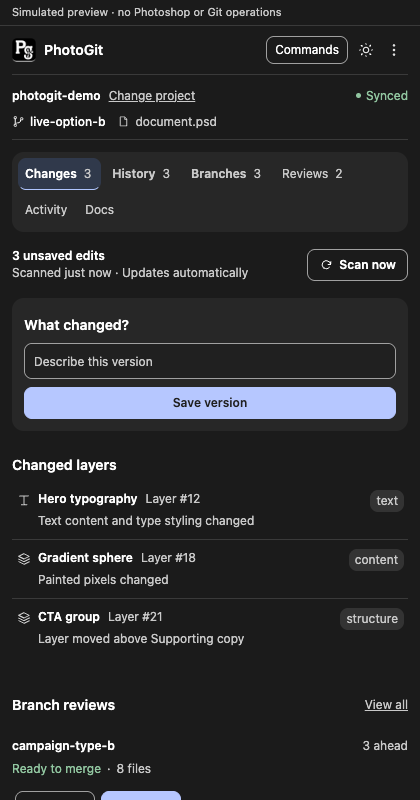
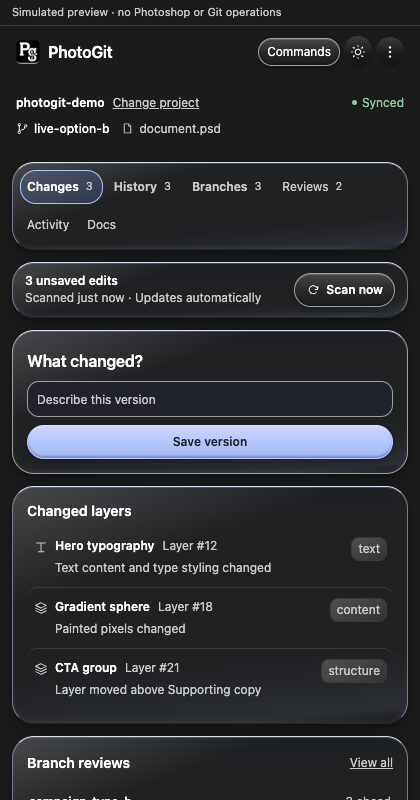
Add prominent glass surfaces and softer PhotoGit motion

diff --git a/apps/photoshop-plugin/styles.css b/apps/photoshop-plugin/styles.css
@@ -10,6 +10,12 @@
   --text-small: 12px; --text-body: 12px; --text-title: 14px; --text-onboarding: 18px; --radius: 8px; --radius-panel: 12px; --motion: 120ms;
   --font-ui: -apple-system, BlinkMacSystemFont, "Segoe UI", sans-serif; --mono: "SFMono-Regular", Consolas, monospace; --motion-enabled: 1;
   --motion-control: 200ms; --motion-nav: 240ms;
+  --glass-top: #343940; --glass-bottom: #272727; --glass-edge: #747d8c;
+  --glass-glint: #d5e0f2; --glass-well: #202329; --glass-radius: 22px;
+  --glass-sheen: rgba(255,255,255,.14); --glass-shadow: rgba(0,0,0,.24);
+  --glass-tint: rgba(39,43,50,.36); --glass-reflection: rgba(255,255,255,.18);
+  --glass-underedge: #24272d; --glass-ambient: rgba(104,139,190,.20);
+  --glass-bounce: rgba(199,222,255,.07);
 }
 :root[data-theme="light"] {
   color-scheme: light;
@@ -19,6 +25,12 @@
   --primary: #365bbb; --primary-text: #ffffff; --primary-hover: #294b9f; --primary-pressed: #203e88;
   --success: #24683c; --success-surface: #e7f1e9; --warning: #805900; --warning-surface: #f6eedc;
   --error: #a32e28; --error-surface: #f9e8e6; --backdrop: rgba(0,0,0,.3);
+  --glass-top: #ffffff; --glass-bottom: #f1f3f7; --glass-edge: #a5acb8;
+  --glass-glint: #ffffff; --glass-well: #e8ecf2;
+  --glass-sheen: rgba(255,255,255,.65); --glass-shadow: rgba(27,39,62,.14);
+  --glass-tint: rgba(255,255,255,.42); --glass-reflection: rgba(255,255,255,.88);
+  --glass-underedge: #aeb8c9; --glass-ambient: rgba(111,149,203,.20);
+  --glass-bounce: rgba(255,255,255,.36);
 }
 * { box-sizing: border-box; }
 html, body { margin: 0; padding: 0; width: 100%; height: 100%; background: var(--bg); color: var(--text); font-family: var(--font-ui); font-size: var(--text-body); line-height: 1.5; }
@@ -324,3 +336,76 @@ input::placeholder { font-family: var(--font-ui); font-size: var(--text-body); f
 :root [role="menuitem"]:not([aria-disabled="true"]):active { background-color: var(--pressed); }
 :root .button-primary[role="button"]:not([aria-disabled="true"]):hover { background-color: var(--primary-hover); border-color: var(--primary-hover); }
 :root .button-primary[role="button"]:not([aria-disabled="true"]):active { background-color: var(--primary-pressed); border-color: var(--primary-pressed); }
+
+/* Liquid material: real UXP-supported gradients and edge highlights, not a
+   dependency on backdrop filtering or Apple's proprietary refraction engine. */
+.panel-root { padding-top: 8px; }
+body { background-image: radial-gradient(ellipse at 10% 0%, var(--glass-ambient), transparent 65%); }
+.app-header { border: 0; padding: 10px 4px; }
+.app-title h1 { font-size: 16px; letter-spacing: -.3px; }
+.repo-context { padding: 12px 4px; border: 0; }
+.content-card, .scan-card, .onboarding, .startup-card,
+.section-nav, .sync-panel, .tools-menu, .tool-sheet, .notice {
+  background-color: var(--glass-tint);
+  background-image: linear-gradient(160deg, var(--glass-reflection) 0%, transparent 32%), linear-gradient(175deg, transparent 72%, var(--glass-bounce) 94%, var(--glass-shadow) 100%);
+  border: 1px solid var(--glass-edge);
+  border-top-color: var(--glass-glint);
+  border-bottom-color: var(--glass-underedge);
+  border-radius: var(--glass-radius);
+}
+.content-card, .onboarding { padding: 14px; margin: 12px 0; }
+.scan-card { padding: 10px 12px; }
+.capture-panel { border-color: var(--border); border-top-color: var(--glass-glint); }
+.version-label, .view-heading h2 { font-size: 16px; letter-spacing: -.2px; }
+.section-nav { padding: 5px; }
+.nav-item { border-radius: 16px; min-height: 34px; }
+.nav-item.active { border-color: var(--focus); background-color: var(--selected); background-image: linear-gradient(160deg, var(--glass-sheen), transparent); }
+.nav-item b { font-size: 11px; }
+.button, .header-action, .footer-action, .sheet-close, .tool-item {
+  border-radius: 18px;
+  background-image: linear-gradient(180deg, var(--glass-sheen), transparent 55%, var(--glass-shadow));
+}
+.button { min-height: 34px; }
+.button-primary { border-top-color: var(--glass-glint); background-image: linear-gradient(180deg, var(--primary-hover), var(--primary) 45%, var(--primary-pressed)); }
+.button-quiet, .command-trigger { background-color: var(--surface); border-color: var(--border); }
+.appearance-toggle, #header-menu { margin-left: 4px; }
+.field-shell, #command-input, sp-dropdown { border-radius: 12px; background-color: var(--glass-well); }
+input { border-radius: 12px; background-color: transparent; }
+.field-shell:focus-within { border-color: var(--focus); }
+.list-row, .command-row { padding: 10px 6px; border-radius: 10px; }
+.list-row:hover, .command-row:hover, .tool-item:hover { background-image: linear-gradient(150deg, var(--glass-sheen), transparent); }
+.change-domain, .meta-chip { border-radius: 8px; }
+.change-domain { border: 1px solid var(--line); background-image: linear-gradient(150deg, var(--glass-sheen), transparent); }
+.review-card { padding: 12px 2px; }
+.review-actions > .merge-action[aria-disabled="true"] { background-image: none; }
+.current-branch { border-radius: 10px; background-color: var(--selected); padding: 8px; }
+.sync-panel { padding: 5px; margin-top: 12px; }
+.footer-action { margin: 2px; }
+.setup-command, .empty-state { border-radius: 12px; background-color: var(--glass-well); }
+.empty-state { padding: 20px 12px; }
+.startup-skeleton span { background-image: linear-gradient(100deg, var(--glass-well), var(--elevated)); }
+/* Floating content stays opaque enough to read over unrelated text below it. */
+.tools-menu, .tool-sheet, .notice { background-color: var(--surface); }
+/* Shadows are progressive enhancement; the native fallback is the lit rim. */
+@supports (box-shadow: 0 2px 8px black) {
+  .tools-menu, .tool-sheet { box-shadow: inset 0 1px 0 var(--glass-glint), inset 0 -2px 4px var(--glass-bounce), 0 20px 48px var(--glass-shadow); }
+  .content-card, .section-nav, .sync-panel, .scan-card { box-shadow: inset 0 1px 0 var(--glass-reflection), inset 0 -2px 3px var(--glass-bounce), 0 2px 4px var(--glass-shadow), 0 12px 24px var(--glass-shadow); }
+  .button, .command-trigger { box-shadow: inset 0 1px 0 var(--glass-reflection), inset 0 -2px 2px var(--glass-shadow), 0 3px 7px var(--glass-shadow); }
+  .button:not([aria-disabled="true"]):hover { box-shadow: inset 0 1px 0 var(--glass-glint), 0 5px 12px var(--glass-shadow); }
+  .button:not([aria-disabled="true"]):active { box-shadow: inset 0 2px 4px var(--glass-shadow); }
+  .button[aria-disabled="true"] { box-shadow: none; }
+}
+/* The material changes depth without moving hit targets or layout. */
+.button, .command-trigger { transition: background-color 220ms ease-out, border-color 220ms ease-out, color 220ms ease-out, box-shadow 220ms ease-out; }
+@media (prefers-reduced-transparency: reduce) {
+  body { background-image: none; }
+  .content-card, .scan-card, .section-nav, .sync-panel, .tools-menu, .tool-sheet,
+  .onboarding, .startup-card, .notice { background-color: var(--surface); background-image: none; }
+  .button, .header-action, .nav-item.active { background-image: none; }
+}
+@media (max-width: 280px) {
+  .content-card, .scan-card, .onboarding { padding: 8px; }
+  .app-title h1 { font-size: 12px; }
+  .appearance-toggle, #header-menu { margin-left: 0; }
+  .footer-action svg { margin-right: 3px; }
+}

diff --git a/apps/photoshop-plugin/motion.js b/apps/photoshop-plugin/motion.js
@@ -69,8 +69,8 @@
         cancel(element); complete?.(); return;
       }
       const progress = Math.min(1, (Date.now() - start) / duration);
-      // Smoothstep keeps both ends gentle without rushing through the visible fade.
-      const eased = progress * progress * (3 - 2 * progress);
+      // Smootherstep has zero velocity and acceleration at both ends.
+      const eased = progress * progress * progress * (progress * (progress * 6 - 15) + 10);
       element.style.opacity = String(from + (to - from) * eased);
       paint(state, from + (to - from) * eased);
       if (progress === 1) { cancel(element); complete?.(); }
@@ -78,20 +78,20 @@
     };
     step();
   }
-  function enter(element) { animate(element, 0.28, 1, 300); }
+  function enter(element) { animate(element, 0.62, 1, 320); }
   function theme(change) {
     const panel = document.querySelector(".panel-root");
     if (!panel || reduced()) { cancel(panel); change(); return; }
     // A new toggle cancels the previous pending change; the caller owns intent.
     const current = Number(panel.style.opacity || 1);
-    animate(panel, current, 0.18, 170, () => { change(); animate(panel, 0.18, 1, 280); });
+    animate(panel, current, 0.5, 160, () => { change(); animate(panel, 0.5, 1, 320); });
   }
   document.addEventListener("click", event => {
     const control = event.target.closest('[role="button"], [role="tab"], [role="menuitem"]');
     if (!control || control.getAttribute("aria-disabled") === "true" || control.closest('[hidden]')) return;
     // Avoid competing paint snapshots while the containing theme/view is fading.
     if ([...running.keys()].some(parent => parent !== control && parent.contains(control))) return;
-    animate(control, 0.65, 1, 240);
+    animate(control, 0.82, 1, 220);
   });
   globalThis.PhotoGitMotion = { enter, theme, cancel, reduced };
 })();

diff --git a/apps/photoshop-plugin/ui-contract.test.ts b/apps/photoshop-plugin/ui-contract.test.ts
@@ -993,14 +993,18 @@ describe("PhotoGit rounded design and label clarity", () => {
     expect(themes).toHaveLength(2);
     for (const block of themes) {
       const colors = Object.fromEntries([...block.matchAll(/--([\w-]+):\s*(#[a-f\d]{6})/gi)].map(match => [match[1], match[2]]));
-      for (const surface of ["bg", "surface", "elevated", "input", "selected"]) {
+      for (const surface of ["bg", "surface", "elevated", "input", "selected", "glass-top", "glass-bottom", "glass-well"]) {
         for (const text of ["text", "muted"]) expect(contrast(colors[text]!, colors[surface]!)).toBeGreaterThanOrEqual(4.5);
         for (const boundary of ["border", "focus"]) expect(contrast(colors[boundary]!, colors[surface]!)).toBeGreaterThanOrEqual(3);
       }
-      expect(contrast(colors["primary-text"]!, colors.primary!)).toBeGreaterThanOrEqual(4.5);
+      for (const state of ["primary", "primary-hover", "primary-pressed"]) {
+        expect(contrast(colors["primary-text"]!, colors[state]!)).toBeGreaterThanOrEqual(4.5);
+      }
     }
     expect(css).toContain("--radius: 8px");
     expect(css).toContain("--radius-panel: 12px");
+    expect(css).toContain("--glass-radius: 22px");
+    expect(css).toContain("prefers-reduced-transparency: reduce");
   });
 });
 

diff --git a/apps/photoshop-plugin/motion.test.ts b/apps/photoshop-plugin/motion.test.ts
@@ -31,6 +31,17 @@ async function fixture(reduce = false, cssFallback = false) {
 }
 
 describe("Shared native-compatible PhotoGit motion", () => {
+  it("keeps entrances readable and gently settles their final frame", async () => {
+    const p = await fixture();
+    const view = p.id("changes-view");
+    p.context.PhotoGitMotion.enter(view);
+    expect(Number(view.style.opacity)).toBe(0.62);
+    p.advance(160);
+    expect(Number(view.style.opacity)).toBeCloseTo(0.81, 2);
+    p.advance(180);
+    expect(view.style.opacity || "").toBe("");
+    expect(p.timers.size).toBe(0);
+  });
   it("fades theme out/in, persists intent before the midpoint, and restores opacity", async () => {
     const p = await fixture();
     p.id("appearance-toggle").click();

diff --git a/docs/ACCEPTANCE_REPORT.md b/docs/ACCEPTANCE_REPORT.md
@@ -1,5 +1,25 @@
 # Acceptance report: 0.2.0 development
 
+## Prominent-glass delivery
+
[1 lines of base64/hex data omitted]
+
+This delivery combines the earlier uncommitted liquid-material and motion revisions with stronger reflections, more translucent surfaces, rounded controls and deeper edge shading. The README image is a reviewed simulated-data screenshot; no native Photoshop screenshots or project artwork are included in the commit. The historical "not pushed" notes below describe earlier checkpoints.
+
+Native limitation: this final revision has not been reloaded or visually inspected in Photoshop. The previous native gradient/tab checks do not establish support for the new layered reflections, browser shadow enhancements, or final motion behavior. No Apple-native refraction or live blur is claimed. Runtime workflow code and document data are unchanged.
+
+## Translucent depth and softer motion follow-up
+
+Browser verification passed all six destinations across eight viewport/theme combinations, plus stress states, theme persistence, palette navigation and focus return. Captures are local under `/private/tmp/photogit-depth-ui`; both 420×800 themes were visually inspected.
+
[1 lines of base64/hex data omitted]
+
+## Liquid material UI revision
+
+Updated the shared stylesheet across all six pages, startup, menus, sheets, fields and controls using the Apple Icon Composer reference. Text remains opaque and legible; gradients and highlighted rims approximate the material in UXP without native Apple refraction. Primary controls intentionally omit the white sheen to preserve contrast in Light mode.
+
[1 lines of base64/hex data omitted]
+
 ## September 5 editorial surface refinement
 
 Replaced repeated outlined cards with canvas-backed lists, a focal save surface, quiet segmented navigation, and a utility footer. Added periwinkle primary/selected states while preserving grey hover feedback. Commands use monospace syntax. Current branch is visible; unavailable merges are explanatory notes. Consecutive detection events disclose grouped details rather than filling the activity feed. The shared demo uses the production stylesheet and matching review treatment.

diff --git a/docs/DESIGN_SYSTEM.md b/docs/DESIGN_SYSTEM.md
@@ -4,6 +4,18 @@ September 5, 2026 · development revision · native UXP, no framework migration.
 
 ## Direction
 
+### Liquid material revision
+
+Prominent-glass revision (current): surface radius 22px, control radius 18px, active tabs 16px. Dark/Light base tint alpha is now 36%/42%, upper reflection 18%/88%, ambient tint 20%/20%, and lower reflection 7% pale blue/36% white. Dark rim is #D5E0F2. Layered lower reflections and shaded edges make the material visible without backdrop blur. Browser-only progressive shadows add inset rims and two levels of cast shadow; hover raises the shadow and press insets it without moving hit targets. Primary buttons use only their contrast-tested primary/hover/pressed colours for the gradient, never a white sheen. The softer quintic motion from the preceding follow-up is retained. README preview is refreshed from simulated data. Earlier values below describe prior checkpoints.
+
+Depth follow-up: surfaces now use `--glass-tint` at 52% alpha in Dark and 54% in Light, a directional reflection (12% / 72% white), shaded lower edges (#24272D / #AEB8C9), and a faint ambient canvas tint. Floating menus remain opaque for legibility. Supported browsers additionally render inset highlights and lifted shadows; native UXP must be judged by its gradient/rim fallback, not browser screenshots. Reduced-transparency mode restores opaque surfaces and removes decorative gradients.
+
+Motion now uses quintic smootherstep: page/sheet entrance 62%→100% over 320ms, theme out/in 100%→50%→100% over 160ms + 320ms, click feedback 82%→100% over 220ms. The lighter fades avoid full-panel blackouts; action dispatch remains immediate and rapid-toggle cancellation/reduced-motion behavior remains covered by tests.
+
+The latest user-directed style follows [Apple Icon Composer](https://developer.apple.com/icon-composer/): layered surfaces, specular rims, rounded controls, and crisp text. This supersedes the prior no-gradient editorial direction. It is an adaptation, not Apple's native Liquid Glass engine; no refraction or live backdrop blur is claimed. Adobe documents linear gradients as supported UXP backgrounds, so gradients and border highlights provide the native treatment without dependencies or a manifest feature-flag change.
+
+New tokens (dark / light): `--glass-top` #343940 / #FFFFFF; `--glass-bottom` #272727 / #F1F3F7; `--glass-edge` #747D8C / #A5ACB8; `--glass-glint` #B3BFD3 / #FFFFFF; `--glass-well` #202329 / #E8ECF2; `--glass-sheen` white at 10% / 65%; `--glass-shadow` black at 18% / #1B273E at 10%. `--glass-radius` is 18px, controls 12px, list rows 10px. Page/form titles and branding are 16px; body and controls remain 12px. Text stays opaque instead of blurred or refracted. Contrast tests include both gradient endpoints and inset wells. Reduced-transparency media queries remove decorative gradients when supported; shadows are progressive enhancement only. Existing motion timings, commands, IDs, helper operations, and startup logic are unchanged.
+
 Compact, typography-led workspace: small identity, project and connection, document context, natural-width section tabs, active task, quiet sync footer. The restrained navigation and composition of [Martin Sit’s site](https://martinsit.ca/) informed the direction, without copying assets or layout. Save version stays above long change lists. Earlier versions still open separate PSDs; merge remains ordinary Git, not visual blending.
 
 ## Tokens
